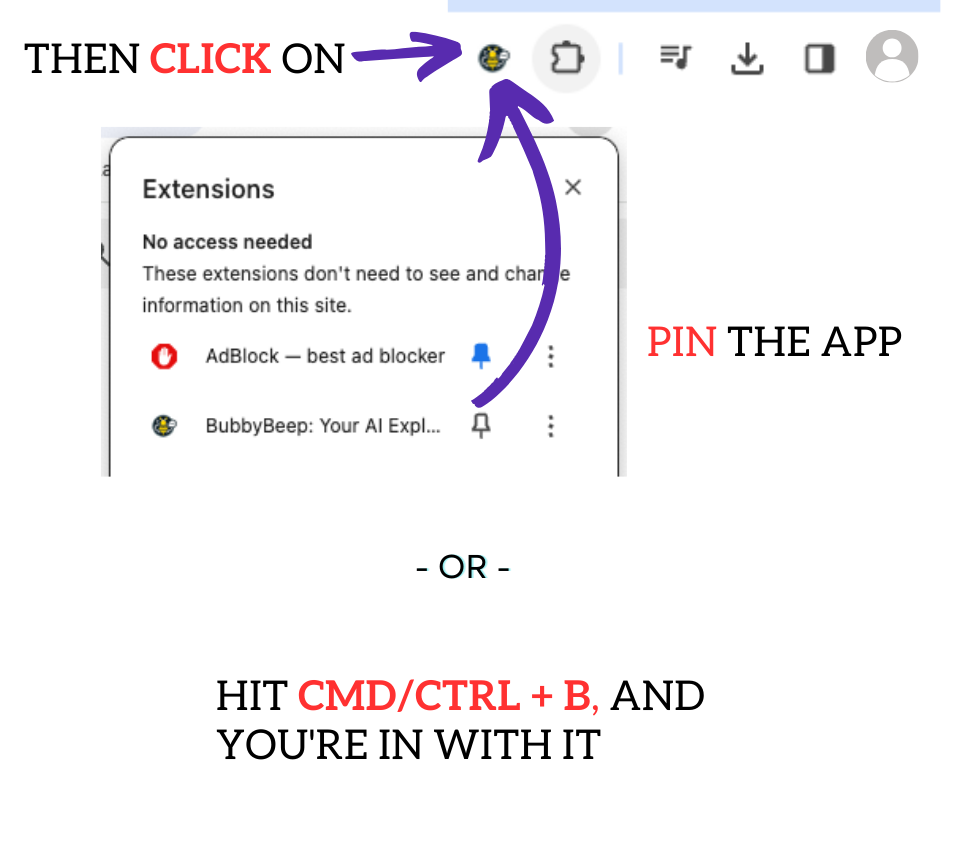
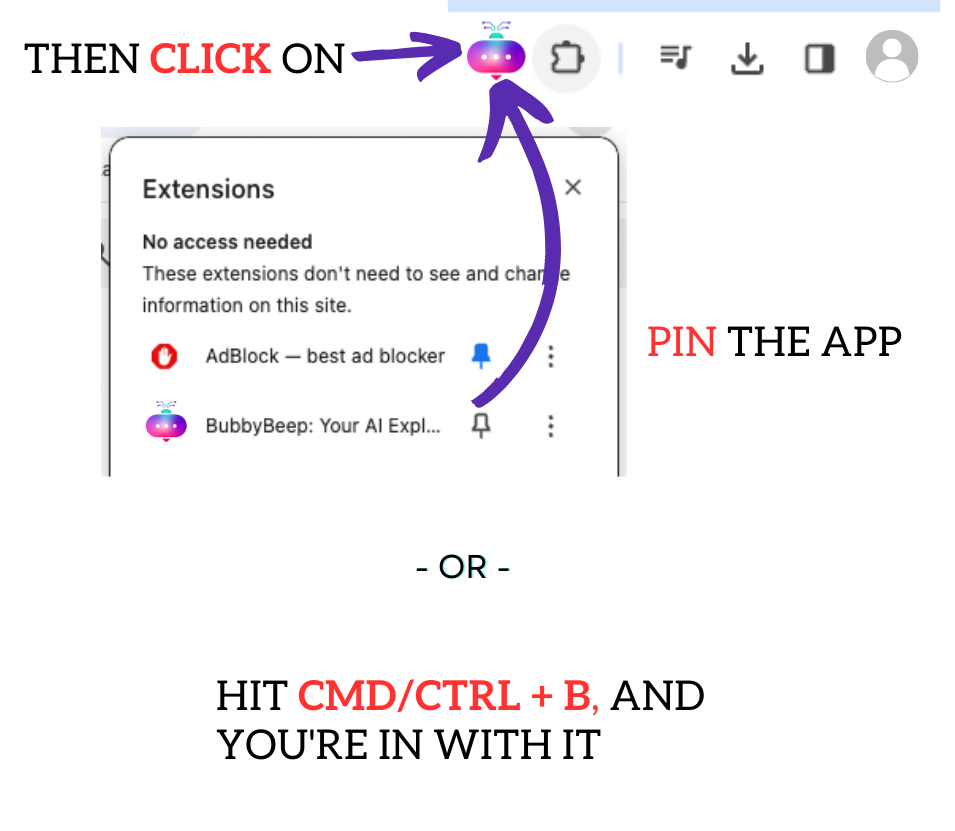
udpate

diff --git a/src/app/components/ThemeSettingModal/index.tsx b/src/app/components/ThemeSettingModal/index.tsx
@@ -31,7 +31,7 @@ const Button: FC<ComponentPropsWithoutRef<'button'>> = (props) => {
 }
 
 const THEME_COLORS = [
-  '#7EB8D6',
+  '#e7e7e7',
   '#FF6900',
   '#7BDCB5',
   '#00D084',
@@ -102,43 +102,6 @@ const ThemeSettingModal: FC<Props> = (props) => {
             value={themeMode}
             onChange={onThemeModeChange}
           />
-        </div>
-        <div>
-          <div className={cx('flex flex-col gap-3', !premiumState.activated && 'opacity-50 pointer-events-none')}>
-            {isArcBrowser() && (
-              <div className="flex flex-row items-center gap-2">
-                <input
-                  type="checkbox"
-                  id="arc-theme-check"
-                  checked={followArcTheme}
-                  onChange={(e) => setFollowArcTheme(e.target.checked)}
-                  disabled={!premiumState.activated}
-                />
-                <label htmlFor="arc-theme-check">{t('Follow Arc browser theme')}</label>
-              </div>
-            )}
-            {!followArcTheme && (
-              <TwitterPicker
-                colors={THEME_COLORS}
-                color={themeColor}
-                onChange={onThemeColorChange}
-                triangle="hide"
-                width="300px"
-              />
-            )}
-          </div>
-        </div>
-        <div>
-          <p className="font-bold text-lg mb-3">{t('Display size')}</p>
-          <span className="isolate inline-flex rounded-md shadow-sm">
-            <Button className="rounded-l-md" onClick={() => updateZoomLevel('-')}>
-              -
-            </Button>
-            <Button className="-ml-px cursor-default">{zoomLevel === null ? '-' : Math.floor(zoomLevel * 100)}%</Button>
-            <Button className="-ml-px rounded-r-md" onClick={() => updateZoomLevel('+')}>
-              +
-            </Button>
-          </span>
         </div>
       </div>
     </>

diff --git a/src/app/components/Sidebar/index.tsx b/src/app/components/Sidebar/index.tsx
@@ -78,15 +78,10 @@ function Sidebar() {
   }
   const enabledBots = useEnabledBots()
   return (
-    <motion.aside
-      className={cx(
-        'flex flex-col bg-primary-background bg-opacity-40 overflow-hidden',
-        collapsed ? 'items-center px-[15px]' : 'w-96 px-4',
-      )}
-    >
+    <motion.aside className={cx('flex flex-col  overflow-hidden', collapsed ? 'items-center px-[15px]' : 'w-96 px-4')}>
       <div className={cx('flex mt-8 gap-3 items-center', collapsed ? 'flex-col' : 'flex-row justify-between')}>
         <div
-          className="cursor-pointer"
+          className="cursor-pointer flex items-center gap-1"
           onClick={() => {
             chrome.runtime.sendMessage({
               action: 'openSidePanelOnly',
@@ -94,7 +89,12 @@ function Sidebar() {
           }}
         >
           {collapsed ? <img src={logo} className="w-[30px]" /> : <img src={logo} className=" ml-2 w-16" />}
+          <div className="flex flex-col font-bold">
+            <span>Buddy </span>
+            <span>Beep</span>
+          </div>
         </div>
+
         <div className="flex flex-row justify-center items-center gap-2">
           <Link to="/setting">
             <FiSettings
@@ -161,7 +161,7 @@ function Sidebar() {
         {chatStatesArray.length === 0 && (
           //  no prompts message
           <div className="flex flex-col gap-2">
-            <div className="flex flex-row justify-center items-center text-secondary">
+            <div className="flex flex-row justify-center items-center  text-secondary-text">
               <span>{t('No prompts')}</span>
             </div>
           </div>

diff --git a/src/app/state/data/categoriesData.ts b/src/app/state/data/categoriesData.ts
@@ -84,7 +84,6 @@ export const agentsCategorization = [
   { agentId: 'scientific-data-visualizer', category: 'Technology', subCategory: 'Information Technology' },
   { agentId: 'classical-music-composer', category: 'Art & Design', subCategory: 'Music Composition' },
   { agentId: 'ascii-artist', category: 'Art & Design', subCategory: 'Digital Art' },
-  { agentId: 'svg-designer', category: 'Art & Design', subCategory: 'Digital Art' },
   { agentId: 'stackoverflow-post', category: 'Technology', subCategory: 'Software Development' },
   { agentId: 'language-detector', category: 'Technology', subCategory: 'Artificial Intelligence' },
   { agentId: 'product-manager', category: 'Productivity', subCategory: 'Project Management' },

diff --git a/src/app/utils/color-scheme.ts b/src/app/utils/color-scheme.ts
@@ -1,4 +1,4 @@
-import { ThemeMode } from '~services/theme'
+import { ThemeMode, getUserThemeMode } from '~services/theme'
 
 const COLOR_SCHEME_QUERY = '(prefers-color-scheme: dark)'
 
@@ -48,7 +48,15 @@ function applyThemeMode(mode: ThemeMode) {
 }
 
 function getDefaultThemeColor() {
-  return '#7EB8D6FF'
+  const themeMode = getUserThemeMode()
+  console.log(`==== themeMode ===`)
+  console.log(themeMode)
+  console.log('==== end log ===')
+
+  if (themeMode === ThemeMode.Dark) {
+    return ''
+  }
+  return '#e7e7e7'
 }
 
 export { applyThemeMode, getDefaultThemeColor }

diff --git a/src/app/components/Sidebar/NavLink.tsx b/src/app/components/Sidebar/NavLink.tsx
@@ -30,7 +30,7 @@ function NavLink(props: {
         iconOnly && 'justify-center',
       )}
       activeOptions={{ exact: true }}
-      activeProps={{ className: 'bg-white text-primary-text dark:bg-primary-blue' }}
+      activeProps={{ className: 'bg-white text-primary-text dark:bg-secondary' }}
       inactiveProps={{
         className:
           'bg-secondary bg-opacity-20 text-primary-text hover:bg-opacity-80 dark:bg-opacity-30 dark:text-primary-text dark:hover:bg-opacity-80',

diff --git a/src/app/components/Layout.tsx b/src/app/components/Layout.tsx
@@ -8,7 +8,7 @@ function Layout() {
   const themeColor = useAtomValue(themeColorAtom)
 
   return (
-    <main className="h-screen grid grid-cols-[auto_1fr]" style={{ backgroundColor: themeColor }}>
+    <main className="h-screen grid grid-cols-[auto_1fr] bg-[#e7e7e7] dark:bg-primary-background">
       <Sidebar />
       <div className="px-[15px] py-3 h-full overflow-hidden">
         <Outlet />

diff --git a/src/app/pages/SidePanelPage.tsx b/src/app/pages/SidePanelPage.tsx
@@ -196,7 +196,7 @@ function SidePanelPage() {
           {tab === 'chat' ? (
             <>
               <Dialog
-                title={t('Generate Draft')}
+                title={t('Summary Web Content')}
                 open={openSummaryModal}
                 onClose={() => {
                   setOpenSummaryModal(false)

diff --git a/manifest.config.ts b/manifest.config.ts
@@ -6,7 +6,7 @@ export default defineManifest(async () => {
     name: '__MSG_appName__',
     description: '__MSG_appDesc__',
     default_locale: 'en',
-    version: '1.6.6',
+    version: '1.7.0',
     icons: {
       '16': 'src/assets/logo-64.png',
       '32': 'src/assets/logo-64.png',
